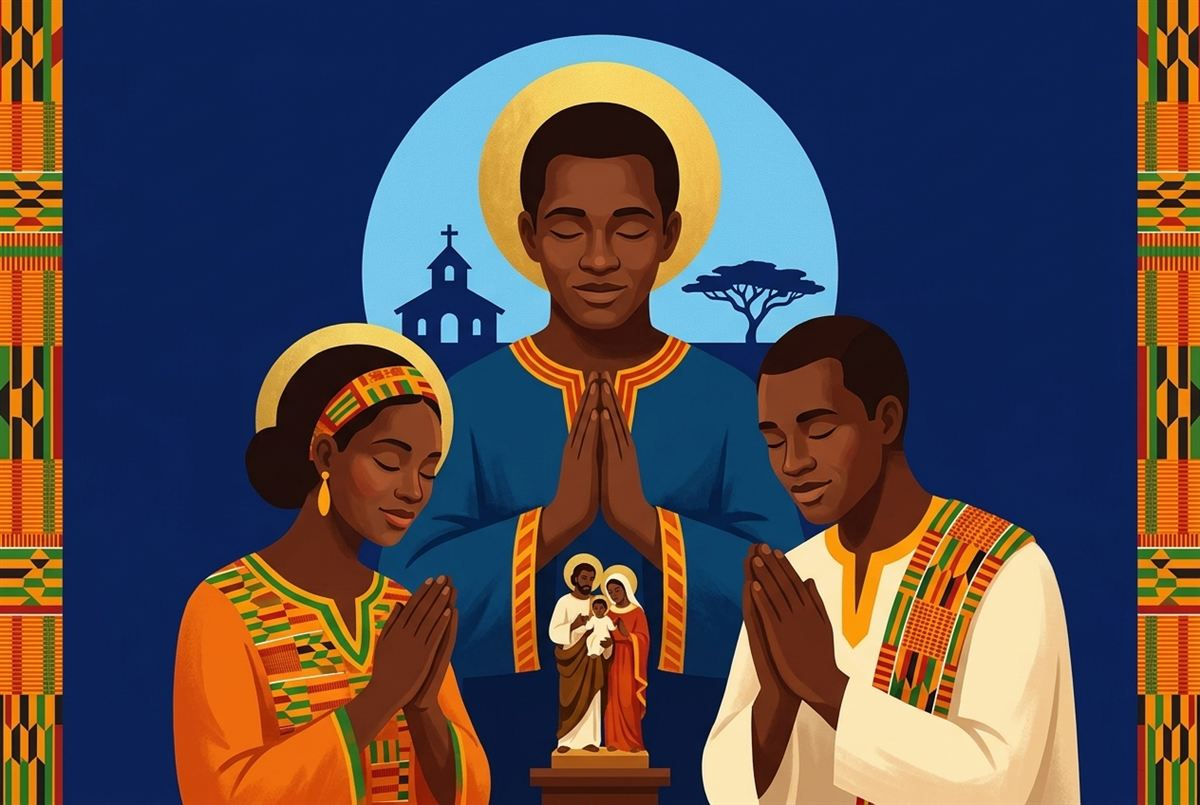
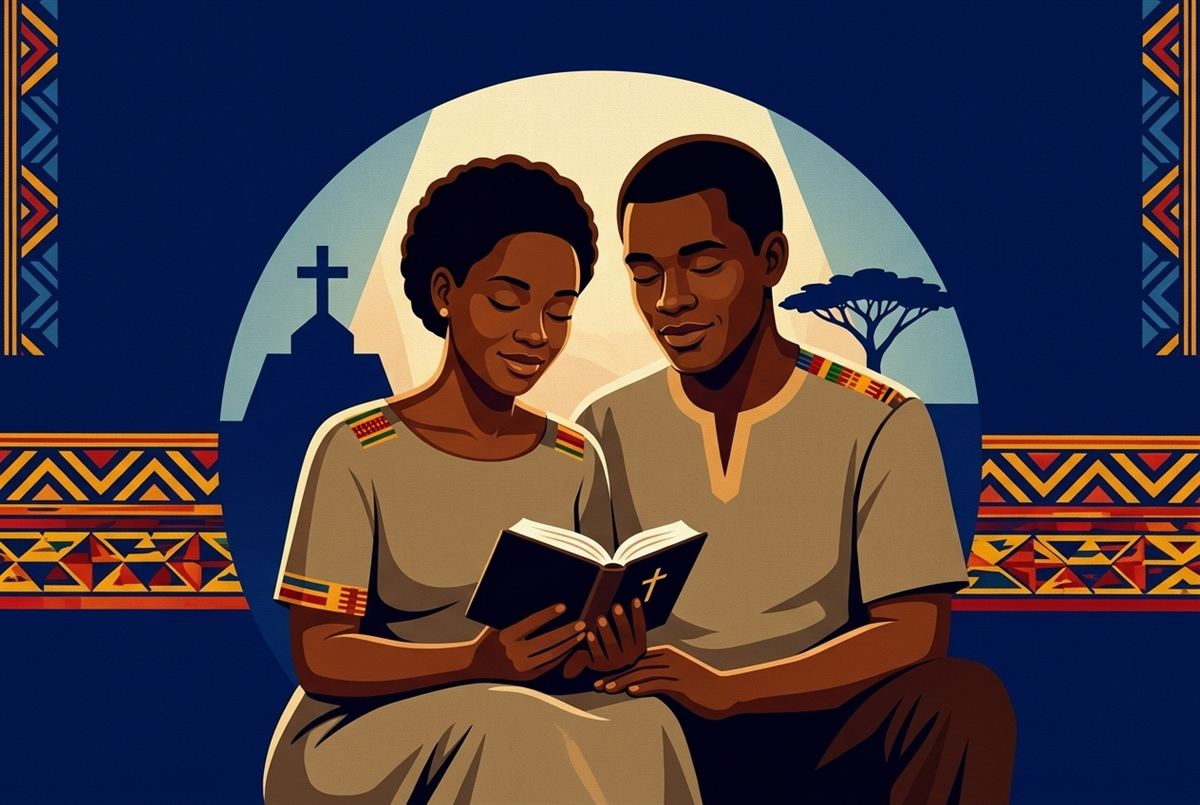
Illustrations for Morning, Midday, Night, Stations, Perpetual Help and Fertility

diff --git a/constants/images.ts b/constants/images.ts
@@ -19,7 +19,11 @@ export const art = {
   stJude: require("../assets/illustrations/st-jude.jpg"),
   stJoseph: require("../assets/illustrations/st-joseph.jpg"),
   fertility: require("../assets/illustrations/fertility.jpg"),
-  ourLady: require("../assets/illustrations/our-lady-angels.jpg"),
+  perpetualHelp: require("../assets/illustrations/perpetual-help.jpg"),
+  stations: require("../assets/illustrations/stations.jpg"),
+  morning: require("../assets/illustrations/morning.jpg"),
+  midday: require("../assets/illustrations/midday.jpg"),
+  night: require("../assets/illustrations/night.jpg"),
   maryChild: require("../assets/illustrations/mary-child.jpg"),
   forYou: require("../assets/illustrations/for-you.jpg"),
   ugandaMartyrs: require("../assets/illustrations/uganda-martyrs.jpg"),
@@ -27,22 +31,20 @@ export const art = {
   familyPrayer: require("../assets/illustrations/family-prayer.jpg"),
 };
 
-// Square tiles for Morning, Midday and Night
-export const dailyTiles: Record<string, any> = {
-  morning: require("../assets/images/tile-morning.jpg"),
-  midday: require("../assets/images/tile-midday.jpg"),
-  night: require("../assets/images/tile-night.jpg"),
-};
+// Morning, Midday and Night: cards (dailyTiles) and page headers (dailyImages)
+export const dailyTiles: Record<string, any> = { morning: art.morning, midday: art.midday, night: art.night };
+export const dailyImages: Record<string, any> = dailyTiles;
 
-// Header photo for each daily prayer and novena
-export const dailyImages: Record<string, any> = {
+// Photos for Morning, Midday and Night, behind the For You cards (text reads
+// better on a photo than on a busy illustration)
+export const dailyPhotos: Record<string, any> = {
   morning: require("../assets/images/header-morning.jpg"),
   midday: require("../assets/images/header-midday.jpg"),
   night: require("../assets/images/header-night.jpg"),
 };
 
 const novenaImages: Record<string, any> = {
-  "2": art.ourLady,
+  "2": art.perpetualHelp,
   "6": art.stJude,
   "7": images.silhouette,
   "8": images.rosaryWall,
@@ -65,6 +67,6 @@ export function itemImage(key: string) {
   if (kind === "novena") return novenaImage(id);
   if (kind === "rosary") return art.rosary;
   if (kind === "chaplet") return art.divineMercy;
-  if (kind === "stations") return images.rosaryWall;
+  if (kind === "stations") return art.stations;
   return images.prayingHands;
 }

diff --git a/app/(tabs)/foryou.tsx b/app/(tabs)/foryou.tsx
@@ -11,7 +11,7 @@ import { useLanguageStore } from "../../store/LanguageStore";
 import { useAuthStore } from "../../store/authStore";
 import { useUserDataStore } from "../../store/userDataStore";
 import { useReadAloud } from "../../lib/speech";
-import { images, dailyImages } from "../../constants/images";
+import { images, dailyPhotos } from "../../constants/images";
 import { cn } from "../../lib/utils";
 import {
   MOODS, CARE_MOODS, isMood, loadMood, loadCards, readLikes, writeLikes, savedKey,
@@ -38,8 +38,8 @@ const write = (key: string, value: string) => {
 
 // Photos behind the cards, in turn
 const BACKGROUNDS = [
-  dailyImages.morning, images.prayingHands, images.rosaryFern, dailyImages.midday, images.silhouette,
-  images.rosaryHands, dailyImages.night, images.rosaryWall, images.handsNight,
+  dailyPhotos.morning, images.prayingHands, images.rosaryFern, dailyPhotos.midday, images.silhouette,
+  images.rosaryHands, dailyPhotos.night, images.rosaryWall, images.handsNight,
 ];
 
 type Item = { kind: "card"; card: FeedCard; hidden: boolean } | { kind: "care" } | { kind: "end" };

diff --git a/app/stations.tsx b/app/stations.tsx
@@ -6,7 +6,7 @@ import { useContent } from "../lib/i18n/content";
 import { PrayerActionBar } from "../components/PrayerActionBar";
 import { useReadAloud } from "../lib/speech";
 import { itemKey } from "../lib/items";
-import { images } from "../constants/images";
+import { art } from "../constants/images";
 
 export default function StationsScreen() {
   const { t } = useTranslation();
@@ -19,7 +19,7 @@ export default function StationsScreen() {
       <PageHeader
         back
         tone="primary"
-        image={images.silhouette}
+        image={art.stations}
         title={t("home.stationsOfCross")}
         description={t("stations.description")}
       />
